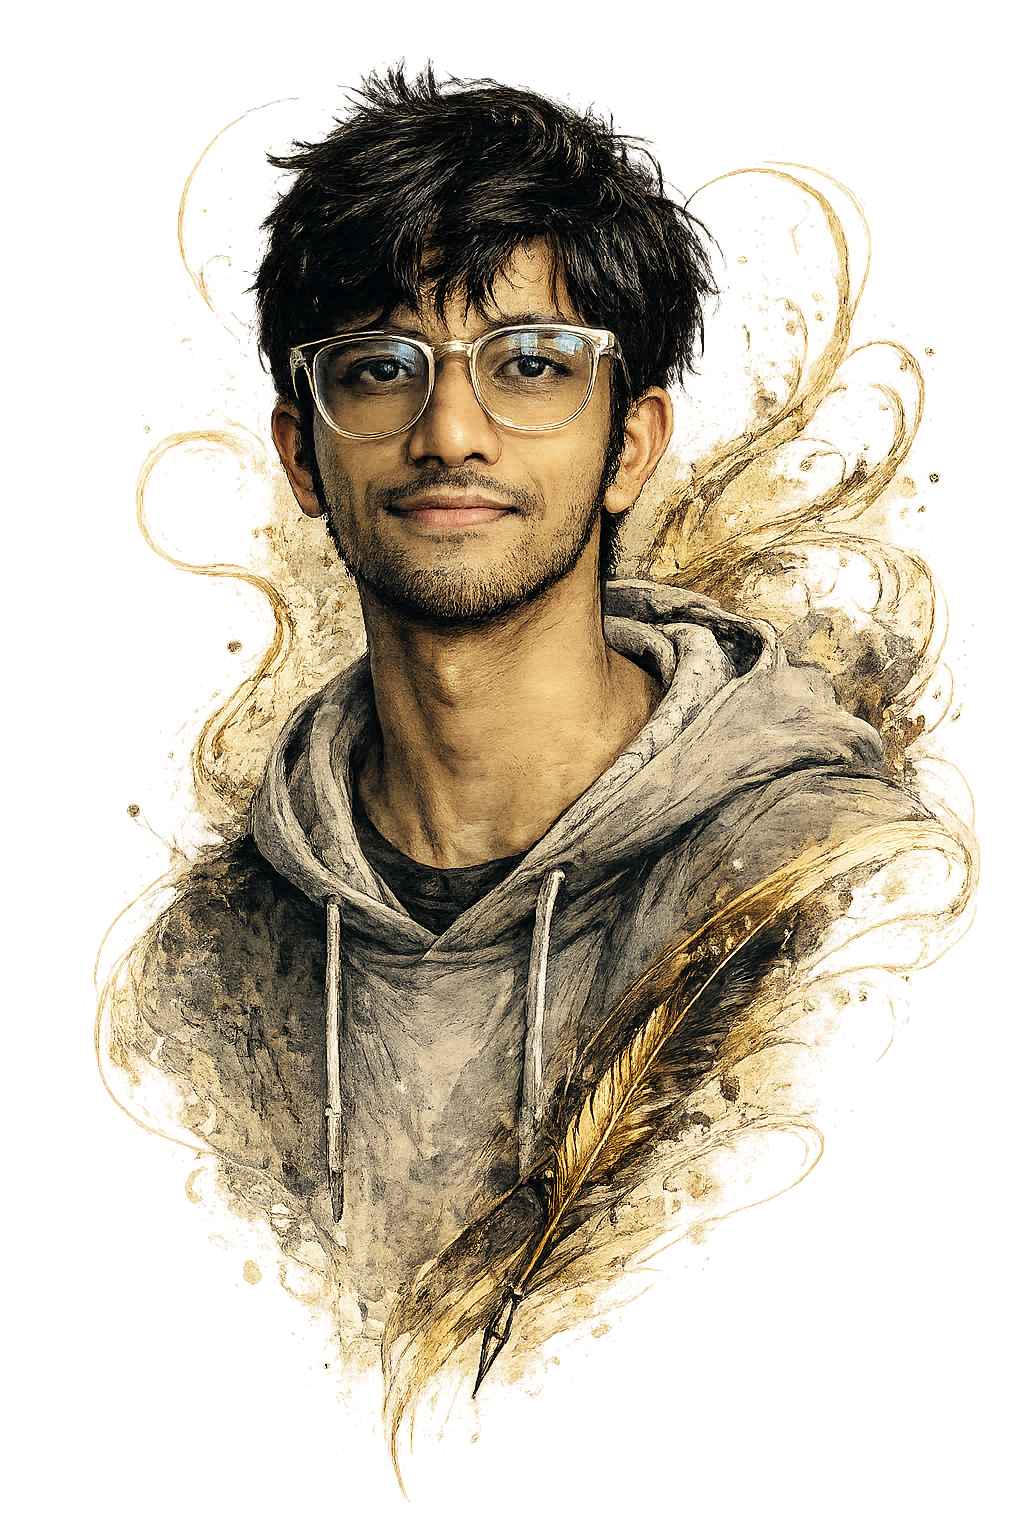
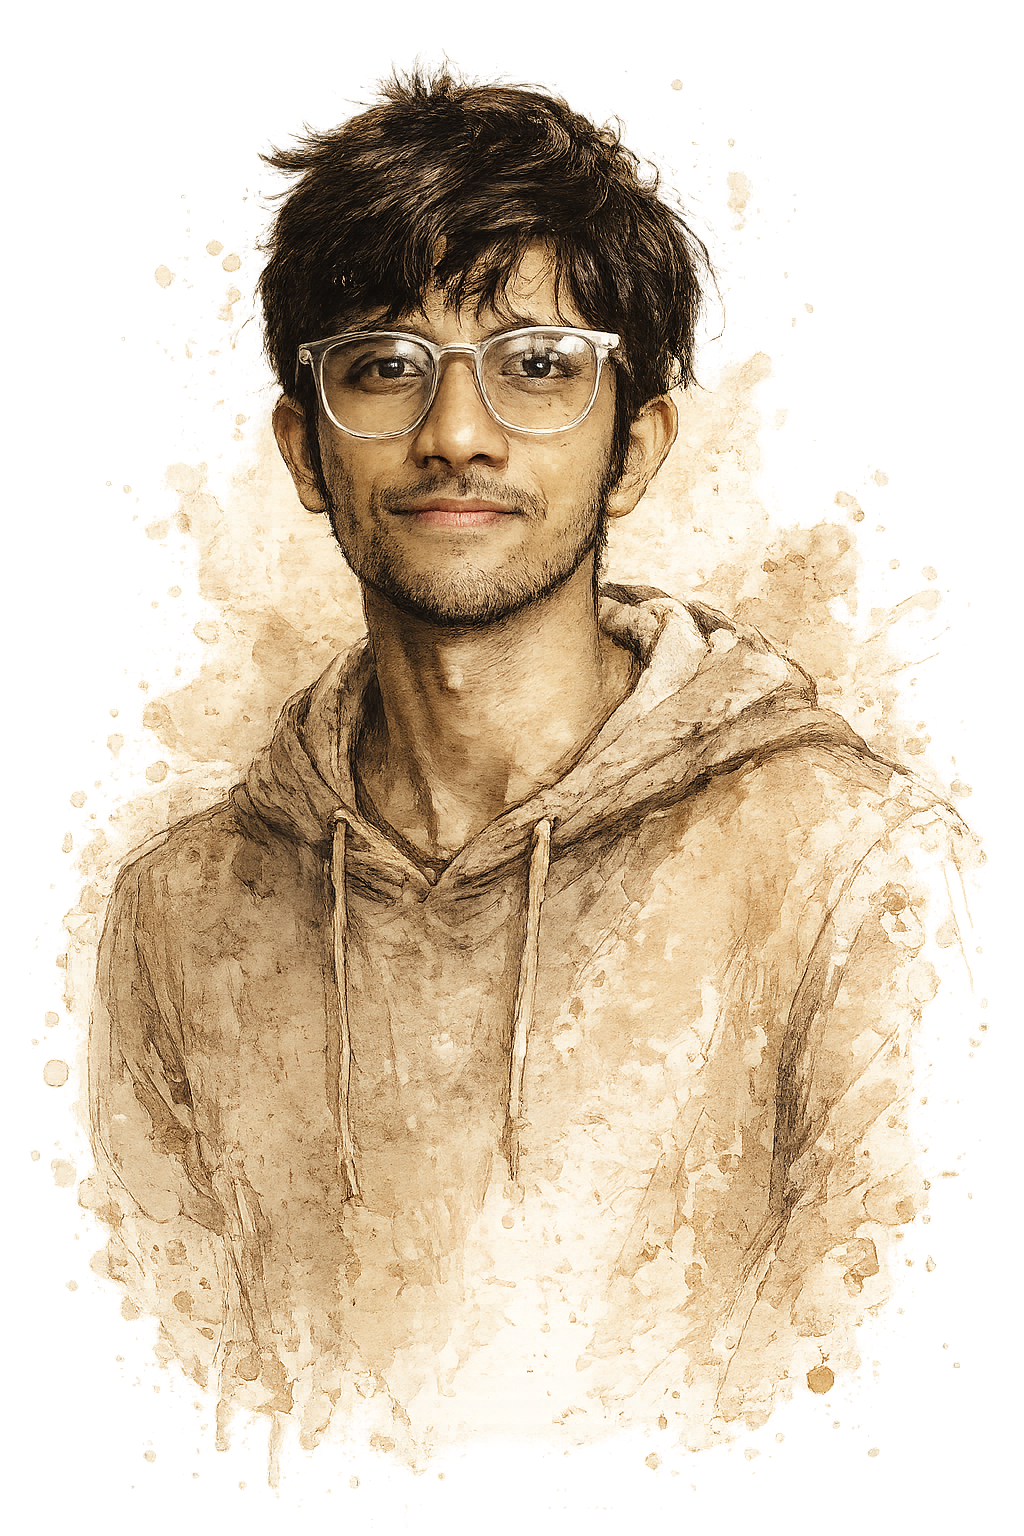
feat: add Aditya P Dixit to people registry and profile image asset

diff --git a/data/people.ts b/data/people.ts
@@ -56,8 +56,8 @@ export const PEOPLE: Record<string, Person> = {
     uid: '5e6f7a8b',
     name: 'Aditya P Dixit',
     imageUrl: '/aditya-p-dixit.png',
-    imageSizePercent: 140,
-    imagePushDownPercent: 34,
+    imageSizePercent: 145,
+    imagePushDownPercent: 35,
   },
   '2c3d4e5f': {
     id: 'likitha-nanaiah',
